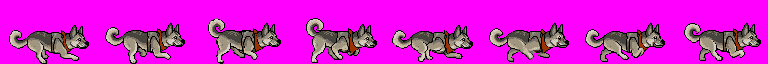
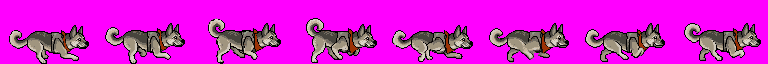
Paleta de personajes: unificar los tonos casi idénticos de median cut
Median cut partía el negro del contorno en tonos casi iguales ((1,0,0),
(1,1,0), (0,0,1) en Tarou; dos negros en Bárbara y en el ninja) que gastaban
huecos de la paleta. Ahora dos colores a 8 unidades RGB o menos se unifican
(gana el de más píxeles) y se vuelve a cuantizar con un color más hasta
llenar los 15. Las tiras de Tarou se regeneran: ganan dos tonos y el dibujo
no cambia; tarou_anim.h queda igual. Prueba nueva (50 en total) y la ROM
compila con make clean + make.

Claude-Session: https://claude.ai/code/session_017EnG7dwTveDLR11rU2k6Mu

diff --git a/scripts/preparar_personaje.py b/scripts/preparar_personaje.py
@@ -47,6 +47,8 @@
       COLORES       int    15                colores opacos (el 16.º es el transparente)
       TOLERANCIA_FIJOS int 32                distancia RGB a un color fijo por debajo de la cual
                                              un píxel ya está "cubierto" y no cuenta para el resto
+      UNIFICAR_DISTANCIA int 8               colores de median cut más cercanos que esto se unifican
+      UNIFICAR_INTENTOS int 12               tamaños de median cut que se prueban para llenar los huecos
       TRANSPARENTE  tuple  magenta           color que marca el índice 0 al guardar
       ANIMACIONES   list   (nombre, cuadros) las 14 animaciones de Tarou y sus cuadros por defecto
       ANIMACIONES_BARBARA, ANIMACIONES_NINJA las de la Revisión 3 (docs/pixellab-fase1.md §1.2, §2.2)
@@ -72,6 +74,8 @@ MAX_CUADROS = 10
 CUADROS_ESTATICOS = 2
 COLORES = 15
 TOLERANCIA_FIJOS = 32
+UNIFICAR_DISTANCIA = 8      # dos colores a esta distancia RGB o menos son "el mismo"
+UNIFICAR_INTENTOS = 12      # cuántos k de median cut se prueban para llenar los huecos
 TRANSPARENTE = (255, 0, 255)
 
 # Las 13 animaciones de la Revisión 1 (docs/diseno-demo-jugable.md §7) más la pose
@@ -328,10 +332,27 @@ def paleta_comun(cuadros: list, fijos: list = ()) -> list:
         return fijos + [c for c in resto if c not in fijos]
     fila = Image.new("RGB", (len(pixeles), 1))
     fila.putdata(pixeles)
-    q = fila.quantize(colors=libres, method=Image.Quantize.MEDIANCUT, dither=Image.Dither.NONE)
-    pal = q.getpalette()[: libres * 3]
-    colores = [tuple(pal[i * 3: i * 3 + 3]) for i in range(libres)]
-    return fijos + sorted(set(colores) - set(fijos))
+    # Median cut a veces parte una zona grande (el negro del contorno) en tonos
+    # casi idénticos: (0,0,0), (1,0,0), (0,0,1)... que gastan huecos sin que se
+    # note la diferencia. Se unifican (gana el tono con más píxeles) y se vuelve
+    # a cuantizar con un color más, hasta llenar los huecos libres.
+    mejor = []
+    for k in range(libres, libres + UNIFICAR_INTENTOS):
+        q = fila.quantize(colors=k, method=Image.Quantize.MEDIANCUT, dither=Image.Dither.NONE)
+        pal = q.getpalette()
+        usos = sorted(q.getcolors(), reverse=True)    # (píxeles, índice), los más usados primero
+        aceptados = []
+        for _, i in usos:
+            c = tuple(pal[i * 3: i * 3 + 3])
+            if all(_distancia2(c, a) > UNIFICAR_DISTANCIA ** 2 for a in fijos + aceptados):
+                aceptados.append(c)
+        if len(aceptados) > libres:                   # este k ya se pasa: vale el anterior
+            break
+        if len(aceptados) > len(mejor):
+            mejor = aceptados
+        if len(mejor) == libres:
+            break
+    return fijos + sorted(mejor)
 
 
 def indexar(tira_rgba: Image.Image, colores: list) -> Image.Image:

diff --git a/scripts/pruebas/prueba_preparar_personaje.py b/scripts/pruebas/prueba_preparar_personaje.py
@@ -354,5 +354,26 @@ class PruebasCeldaYPaletaFija(unittest.TestCase):
             self.assertEqual(c[1], c[2], f"{c} no es gris")
 
 
+class PruebasUnificarCasiIguales(unittest.TestCase):
+    def test_negros_casi_identicos_no_gastan_huecos(self):
+        """Tres negros casi iguales que ocupan mucha superficie (el contorno) no
+        gastan tres huecos: se unifican y la paleta se llena con 15 colores
+        separados entre sí más de UNIFICAR_DISTANCIA."""
+        negros = [(0, 0, 0), (1, 0, 0), (0, 0, 1)]
+        im = Image.new("RGBA", (3000 + 30 * 20, 1), (0, 0, 0, 0))
+        for i, c in enumerate(negros):                     # 1000 px de cada negro
+            for x in range(1000):
+                im.putpixel((i * 1000 + x, 0), c + (255,))
+        for g in range(30):                                # 30 grises, 20 px cada uno
+            for x in range(20):
+                v = 20 + g * 7
+                im.putpixel((3000 + g * 20 + x, 0), (v, v, v, 255))
+        colores = pp.paleta_comun([im])
+        self.assertEqual(len(colores), pp.COLORES)
+        for i, a in enumerate(colores):
+            for b in colores[i + 1:]:
+                self.assertGreater(sum((p - q) ** 2 for p, q in zip(a, b)), pp.UNIFICAR_DISTANCIA ** 2, f"{a} {b}")
+
+
 if __name__ == "__main__":
     unittest.main()

diff --git a/CLAUDE.md b/CLAUDE.md
@@ -53,7 +53,7 @@ The equivalent VS Code tasks (`.vscode/tasks.json`) run these same `make` invoca
 
 What the current ROM does when run (Revisión 2, 2026-10-20): the boot sequence (Nintendo → publisher → devs → dedication → 3-scene intro → title with parallax; the title appears at ~47 s and loops to the intro after 15 s without input; the Nintendo logo is animated by the scene engine: mosaic focus-in, a diagonal light shine, fade out), then Start on the title enters **level 1, a movement tutorial** of 2048 px (8 screens) with collision: Tarou (adult husky, the real Pixellab art in 96x64 cells; the attack is a fixed pose) walks, runs (Y), jumps with variable height (B), crouches and crouch-walks (Down), unsheathes/sheathes the sword (R), attacks (A) and sleeps after 10 s idle, and each obstacle needs one of those moves: 16/32 px steps, a 48 px wall (hold B), a 48 px tunnel (crouch; you can't stand up under it), a 96 px pit (run and jump), one-way platforms over thorns, a log that only the sword breaks, then the exit → "LEVEL 2 / COMING SOON" → title. Falling or touching thorns respawns at the last sign (each sign is a checkpoint). Signs, thorns and log are placeholder art. SELECT toggles the debug HUD (8 rows; since 2026-10-21 it costs ~6 frames over the whole playthrough, measured with the self-playing test ROM; respawn also verified there); START returns to the title. Design: `docs/diseno-tutorial-movimiento.md` (Revisión 2) on top of `docs/diseno-demo-jugable.md` (Revisión 1). Keyboard mapping of Mesen on this machine: arrows, A=S, B=A, X=X, Y=Z, L=Q, R=W, Start=D, Select=E (`docs/mesen-y-depuracion.md`). The capture script forces `EmulationSpeed=100` and `AllowBackgroundInput=true` on the command line; neither is saved to the author's settings. The scripted keys can still be lost (Mesen's focus jumps to its menu bar) while the author uses the PC: the reliable condition is to leave the PC alone during a run; the effect of `AllowBackgroundInput` is not proven.
 
-Tests: the pure game logic has a PC test suite (gcc, 402 checks, including the scene engine, including a full playthrough of the real level driven by `src/juego/guion_tutorial.c`) and the asset scripts have `unittest` tests (49). Run before every commit that touches `src/juego/` or `scripts/`:
+Tests: the pure game logic has a PC test suite (gcc, 402 checks, including the scene engine, including a full playthrough of the real level driven by `src/juego/guion_tutorial.c`) and the asset scripts have `unittest` tests (50). Run before every commit that touches `src/juego/` or `scripts/`:
 ```
 $env:PATH="C:\msys64\usr\bin;"+$env:PATH; make -C tests; .\tests\pruebas.exe
 python -m unittest scripts/pruebas/prueba_preparar_personaje.py scripts/pruebas/prueba_preparar_fondo_nivel.py scripts/pruebas/prueba_preparar_suelo.py scripts/pruebas/prueba_preparar_nivel.py scripts/pruebas/prueba_preparar_prueba_carga.py scripts/pruebas/prueba_piezas16.py
